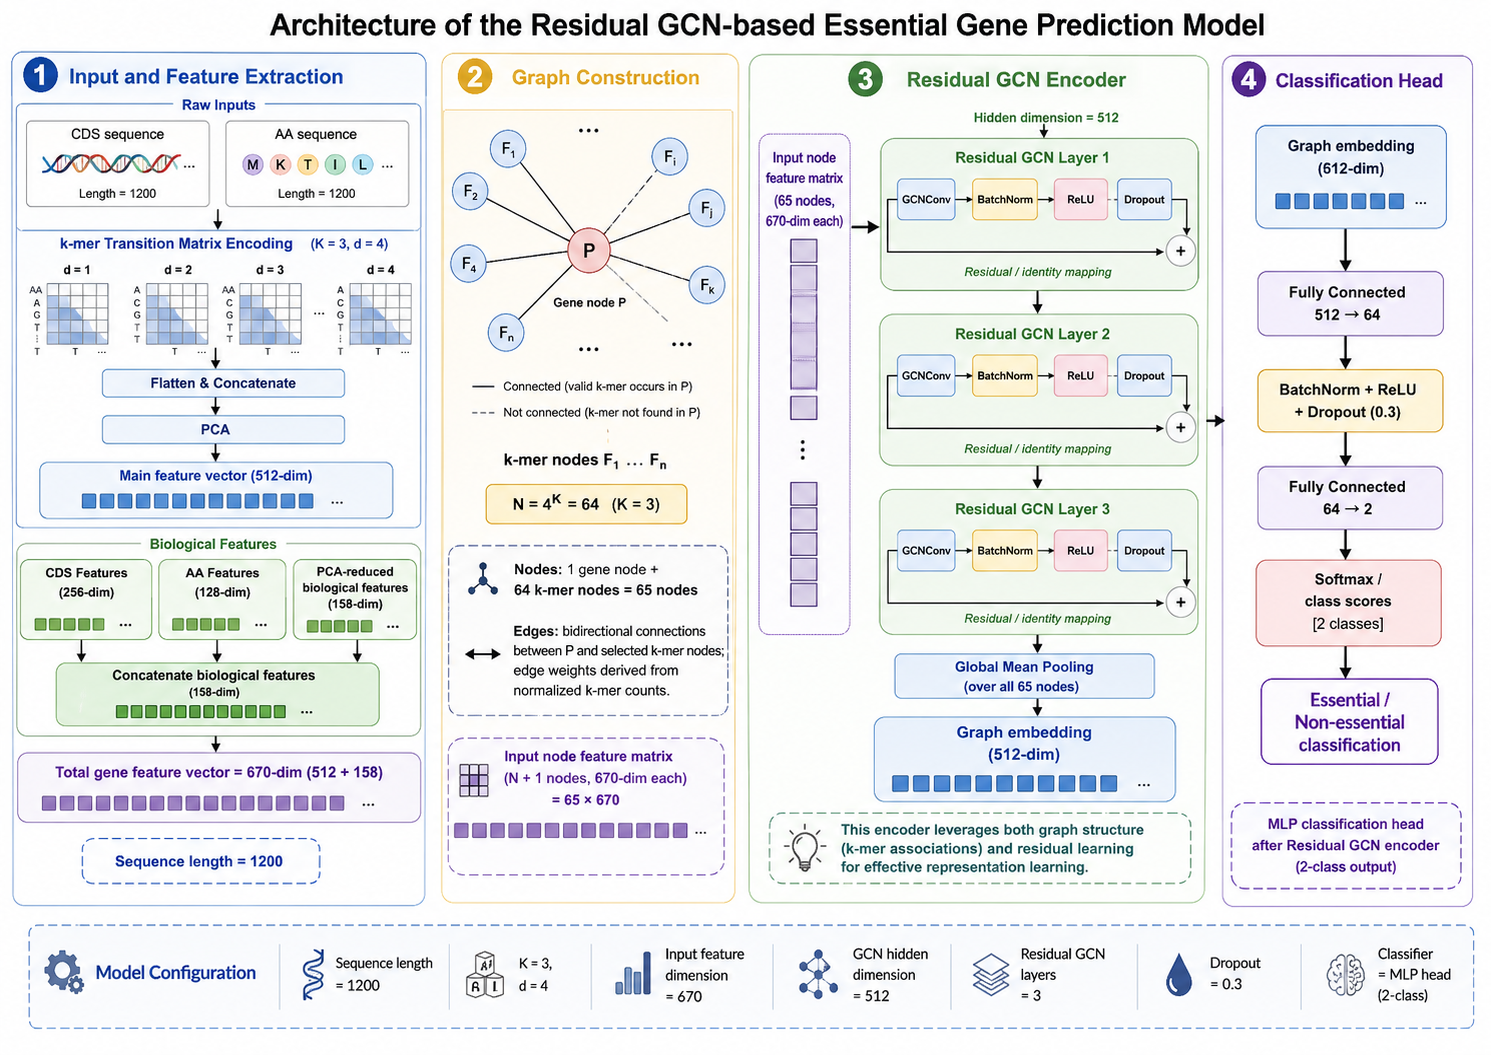
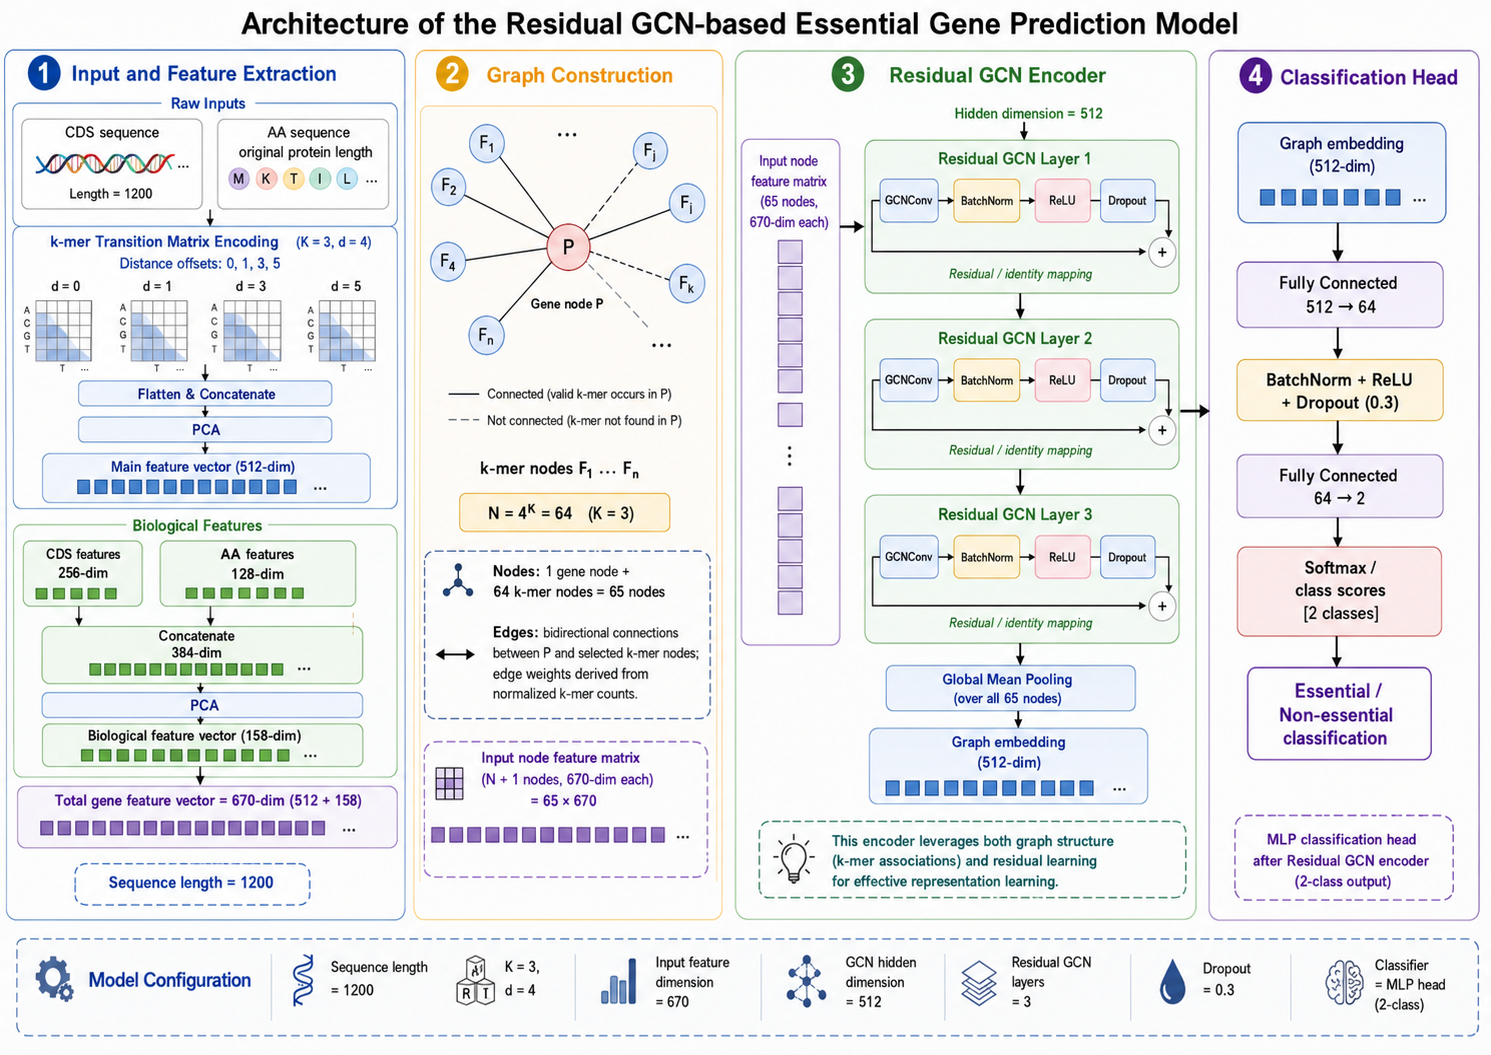
Add files via upload

Changed region(s): [[0.0, 0.0, 1.0, 1.0]]

diff --git a/PlantEssentialGenePrediction-ResidualGCN/plant_essential_gcn/config.py b/PlantEssentialGenePrediction-ResidualGCN/plant_essential_gcn/config.py
@@ -86,14 +86,14 @@ class OptimizedConfig:
     LR = 8e-5
     WARMUP_EPOCHS = 8
     WARMUP_START_FACTOR = 0.2
-    MAX_EPOCHS = 300
+    MAX_EPOCHS = 200
     EARLY_STOP_PATIENCE = 30
 
-    POS_WEIGHT_CAP = 8.0
+    POS_WEIGHT_CAP = 3.0
     POS_WEIGHT_MULTIPLIER = 1.0
 
     USE_FOCAL_LOSS = True
-    FOCAL_ALPHA = 0.90
+    FOCAL_ALPHA = 0.20
     FOCAL_GAMMA = 2.0
 
     AUGMENT_TRAIN = True

diff --git a/PlantEssentialGenePrediction-ResidualGCN/README.md b/PlantEssentialGenePrediction-ResidualGCN/README.md
@@ -70,6 +70,17 @@ pip install -r requirements.txt
 
 Install the PyTorch and PyTorch Geometric builds that match your CUDA environment when GPU acceleration is required.
 
+
+## Current training parameters
+
+```text
+MAX_EPOCHS = 200
+POS_WEIGHT_CAP = 3.0
+FOCAL_ALPHA = 0.20
+FOCAL_GAMMA = 2.0
+EARLY_STOP_PATIENCE = 30
+```
+
 ## Run training
 
 ```bash